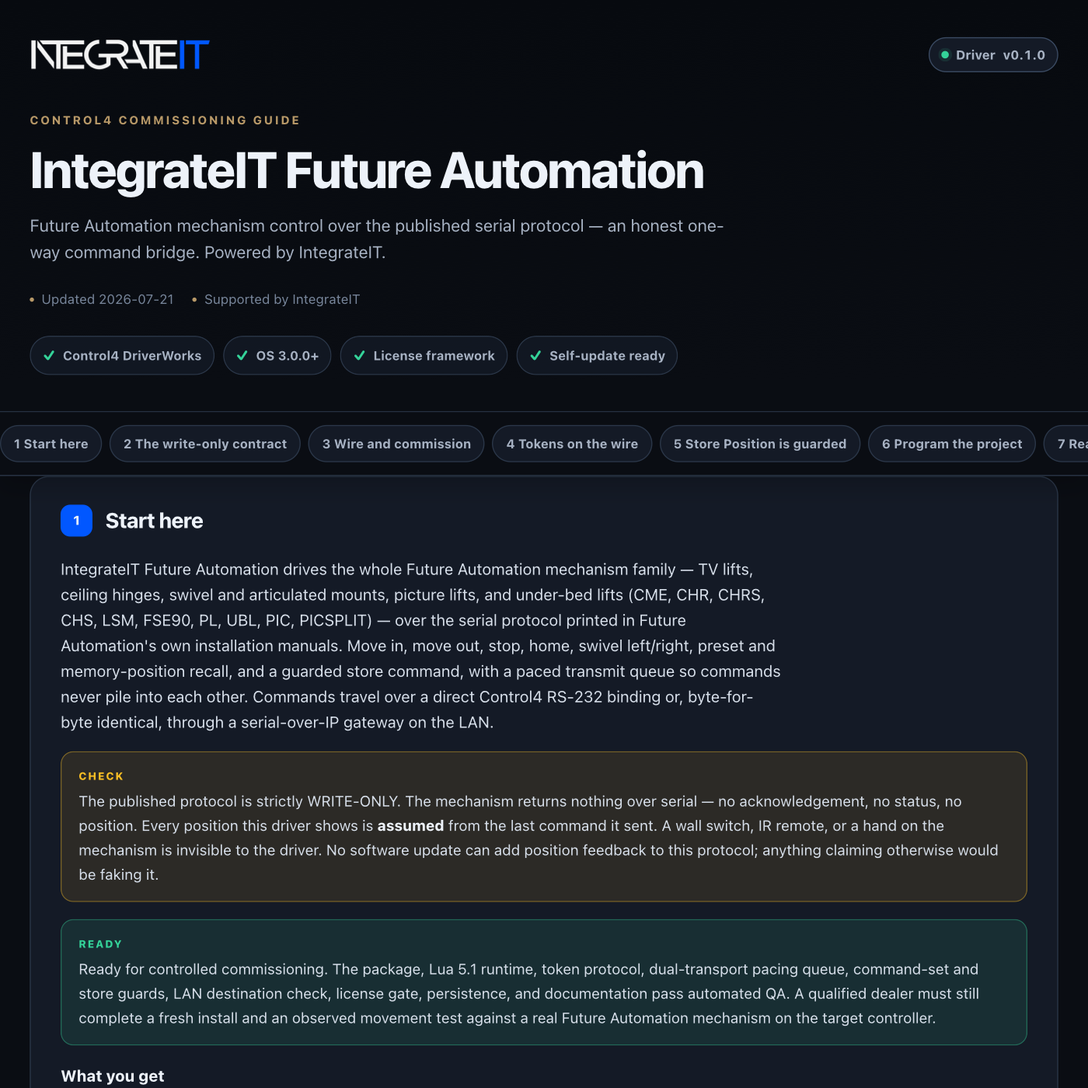
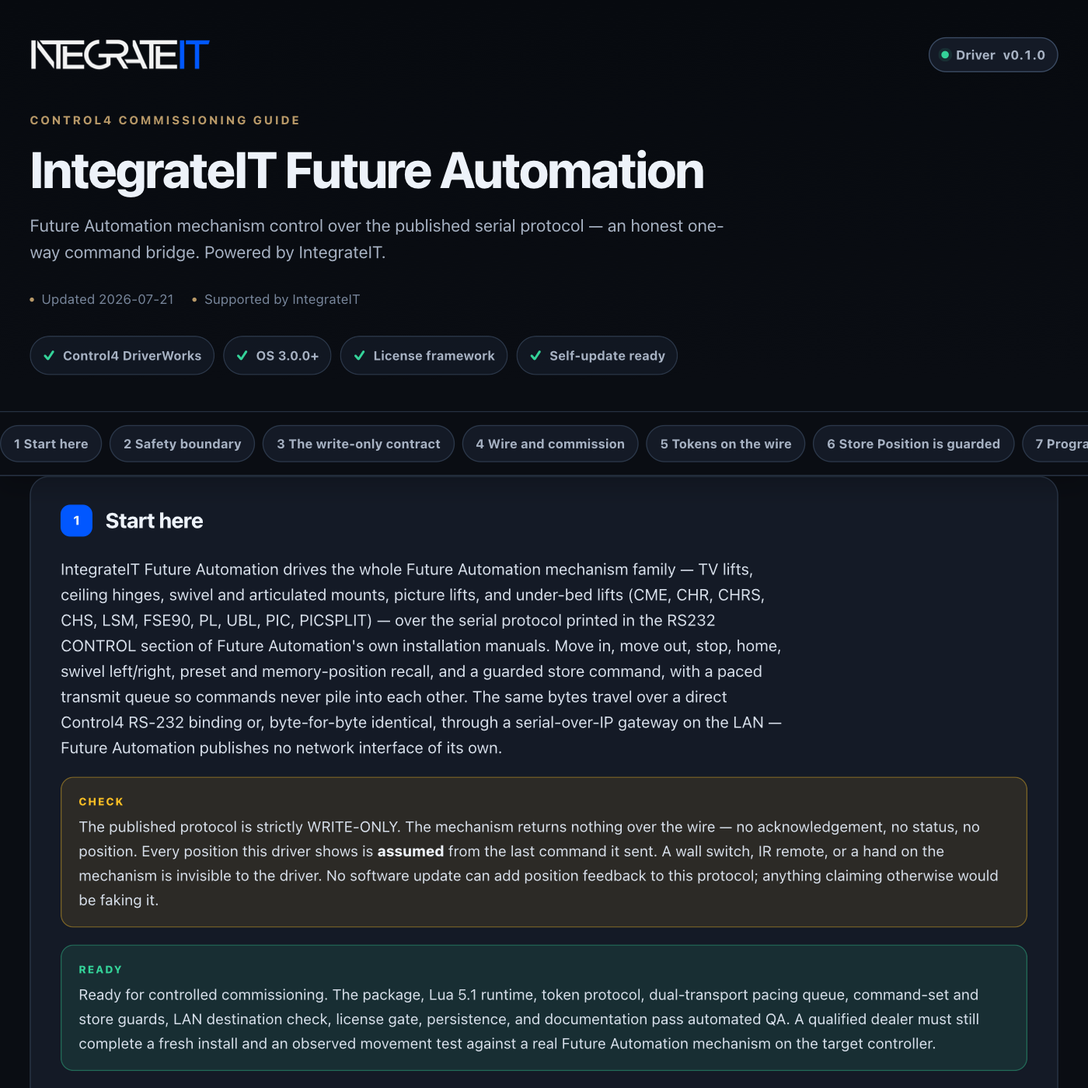
control4: publish driver channel (integrateit_future_automation 0.1.1)

Changed region(s): [[0.0614, 0.5529, 0.9214, 1.0], [0.1229, 0.3993, 1.0, 0.43]]

diff --git a/control4/integrateit_future_automation/documentation.html b/control4/integrateit_future_automation/documentation.html
@@ -179,13 +179,13 @@ td code{white-space:normal}
     <div class="wrap">
       <div class="brandbar">
[1 lines of base64/hex data omitted]
-        <span class="version"><span class="word">Driver</span> v0.1.0</span>
+        <span class="version"><span class="word">Driver</span> v0.1.1</span>
       </div>
       <p class="eyebrow">Control4 commissioning guide</p>
       <h1>IntegrateIT Future Automation</h1>
       <p class="sub">Future Automation mechanism control over the published serial protocol — an honest one-way command bridge. Powered by IntegrateIT.</p>
       <div class="meta">
-        <span>Updated 2026-07-21</span>
+        <span>Updated 2026-07-26</span>
         <span>Supported by IntegrateIT</span>
       </div>
       <div class="readiness" aria-label="Driver capabilities">
@@ -198,14 +198,14 @@ td code{white-space:normal}
   </header>
 
   <div class="toc-wrap">
-    <nav class="toc wrap" aria-label="Documentation sections"><a href="#overview">1 Start here</a><a href="#one-way">2 The write-only contract</a><a href="#setup">3 Wire and commission</a><a href="#protocol">4 Tokens on the wire</a><a href="#store">5 Store Position is guarded</a><a href="#programming">6 Program the project</a><a href="#status">7 Read status at a glance</a><a href="#troubleshooting">8 Troubleshoot methodically</a><a href="#trust">9 Ownership, privacy, and licensing</a><a href="#reference">R Reference</a><a href="#licensing">L Licensing</a><a href="#updates">U Automatic updates</a><a href="#changelog">V Version history</a></nav>
+    <nav class="toc wrap" aria-label="Documentation sections"><a href="#overview">1 Start here</a><a href="#safety">2 Safety boundary</a><a href="#one-way">3 The write-only contract</a><a href="#setup">4 Wire and commission</a><a href="#protocol">5 Tokens on the wire</a><a href="#store">6 Store Position is guarded</a><a href="#programming">7 Program the project</a><a href="#status">8 Read status at a glance</a><a href="#troubleshooting">9 Troubleshoot methodically</a><a href="#trust">10 Ownership, privacy, and licensing</a><a href="#reference">R Reference</a><a href="#licensing">L Licensing</a><a href="#updates">U Automatic updates</a><a href="#changelog">V Version history</a></nav>
   </div>
 
   <main class="wrap">
     <section class="card" id="overview" data-card="overview">
   <h2><span class="n">1</span> Start here</h2>
-  <p>IntegrateIT Future Automation drives the whole Future Automation mechanism family — TV lifts, ceiling hinges, swivel and articulated mounts, picture lifts, and under-bed lifts (CME, CHR, CHRS, CHS, LSM, FSE90, PL, UBL, PIC, PICSPLIT) — over the serial protocol printed in Future Automation's own installation manuals. Move in, move out, stop, home, swivel left/right, preset and memory-position recall, and a guarded store command, with a paced transmit queue so commands never pile into each other. Commands travel over a direct Control4 RS-232 binding or, byte-for-byte identical, through a serial-over-IP gateway on the LAN.</p>
-  <div class="note warn">The published protocol is strictly WRITE-ONLY. The mechanism returns nothing over serial — no acknowledgement, no status, no position. Every position this driver shows is <b>assumed</b> from the last command it sent. A wall switch, IR remote, or a hand on the mechanism is invisible to the driver. No software update can add position feedback to this protocol; anything claiming otherwise would be faking it.</div>
+  <p>IntegrateIT Future Automation drives the whole Future Automation mechanism family — TV lifts, ceiling hinges, swivel and articulated mounts, picture lifts, and under-bed lifts (CME, CHR, CHRS, CHS, LSM, FSE90, PL, UBL, PIC, PICSPLIT) — over the serial protocol printed in the RS232 CONTROL section of Future Automation's own installation manuals. Move in, move out, stop, home, swivel left/right, preset and memory-position recall, and a guarded store command, with a paced transmit queue so commands never pile into each other. The same bytes travel over a direct Control4 RS-232 binding or, byte-for-byte identical, through a serial-over-IP gateway on the LAN — Future Automation publishes no network interface of its own.</p>
+  <div class="note warn">The published protocol is strictly WRITE-ONLY. The mechanism returns nothing over the wire — no acknowledgement, no status, no position. Every position this driver shows is <b>assumed</b> from the last command it sent. A wall switch, IR remote, or a hand on the mechanism is invisible to the driver. No software update can add position feedback to this protocol; anything claiming otherwise would be faking it.</div>
   <div class="note good">Ready for controlled commissioning. The package, Lua 5.1 runtime, token protocol, dual-transport pacing queue, command-set and store guards, LAN destination check, license gate, persistence, and documentation pass automated QA. A qualified dealer must still complete a fresh install and an observed movement test against a real Future Automation mechanism on the target controller.</div>
   <p><b>What you get</b></p>
   <ul>
@@ -213,24 +213,37 @@ td code{white-space:normal}
     <li><b>Home, Swivel Left / Right</b> — articulated and swivel ranges</li>
     <li><b>Recall Preset and memory positions A / B / C</b> — plus <b>Store Position</b>, guarded behind an explicit enable</li>
     <li>A configurable inter-command spacing queue so back-to-back commands never collide</li>
-    <li>Two transports, property-selected: the RS-232 serial binding, or a raw-TCP serial-over-IP gateway</li>
+    <li>Two transports, property-selected: the RS-232 serial binding, or a raw-TCP serial-over-IP gateway with LAN-only destinations and auto-reconnect</li>
     <li>Honest assumed-position tracking: <code>Command Sent</code>, <code>Mechanism Assumed In / Out / Stopped</code>, and <code>Preset Recalled</code> events with programming variables</li>
   </ul>
 </section>
 
+<section class="card" id="safety" data-card="safety">
+  <h2><span class="n">2</span> Safety boundary</h2>
+  <div class="note warn">These mechanisms move real furniture. A TV lift, a ceiling hinge, or a bed lift can pinch, trap, or strike a person, pet, or object in the travel path. Keep the mechanism in view during commissioning. This driver sends movement over a one-way link — it cannot see an obstruction, an end of travel, or anyone standing in the way. It knows only what it last transmitted.</div>
+  <p><b>Stop is the one command that never waits.</b> Every other token is paced through the transmit queue (see <b>Command Spacing</b>), but latency on Stop is a hazard: this is moving furniture. So <code>Stop</code> (<code>fa_stop</code>) <b>preempts</b> — it is the one deliberate exception to pacing. Stop discards any pending movement backlog (the user wants motion halted, not resumed), drops the inter-command spacing latch (configurable up to 2 s), and puts <code>fa_stop</code> on the active transport — serial or gateway — immediately. Without this, a movement token queued ahead of Stop would keep the mechanism travelling, or reverse it, before the stop ever reached the wire. Stop preempts identically on both transports.</p>
+  <p>Before you enable control:</p>
+  <ol class="steps">
+    <li>Prove the mechanism from its own wall switch or IR remote first, including its physical end-of-travel limits.</li>
+    <li>Clear the travel path, and keep it clear through the first commanded cycles.</li>
+    <li>Confirm the serial or gateway wiring before the first <b>Move</b> so a mis-wired port cannot leave the mechanism travelling with no working Stop.</li>
+    <li>Under Strict licensing no wire byte leaves until a controller key is validated. Confirm <b>Stop</b> actually halts the mechanism before you build automated movement on top of it.</li>
+  </ol>
+</section>
+
 <section class="card" id="one-way" data-card="one-way">
-  <h2><span class="n">2</span> The write-only contract</h2>
+  <h2><span class="n">3</span> The write-only contract</h2>
   <p>Future Automation's control boxes accept commands and say nothing back — the vendor manuals publish no status, query, feedback, or acknowledgement commands anywhere in the range. This driver is deliberately honest about that:</p>
   <ul>
     <li>The <code>Assumed Position</code> property and <code>ASSUMED_POSITION</code> variable are <b>dead-reckoned</b> from the commands this driver sent — nothing more.</li>
     <li>After a controller reboot the position restarts at <code>Unknown</code>. No travel is observable across a reboot on a write-only link, so nothing else would be truthful.</li>
-    <li>Swivel commands articulate the mechanism without a dead-reckonable endpoint, so they leave the assumed position untouched.</li>
-    <li>There is no Navigator proxy promising position on purpose. Programming reacts to the events and variables below; position sliders would be fiction.</li>
+    <li>Swivel commands articulate the mechanism without a dead-reckonable endpoint, and Store writes a memory without moving anything — both leave the assumed position untouched.</li>
+    <li>There is no Navigator proxy promising position on purpose. Programming reacts to the events and variables below; a position slider would be fiction.</li>
   </ul>
 </section>
 
 <section class="card" id="setup" data-card="setup">
-  <h2><span class="n">3</span> Wire and commission</h2>
+  <h2><span class="n">4</span> Wire and commission</h2>
   <p><b>Serial (recommended — it is the vendor's native interface):</b></p>
   <ol class="steps">
     <li>Locate the socket marked <b>RS232</b> on the mechanism control box: 6-pin RJ11/RJ25 (pin 1 RX, pin 6 TX, pins 3/4/5 ground) or the 9-pin DE-9 variant.</li>
@@ -241,18 +254,18 @@ td code{white-space:normal}
   <ol class="steps">
     <li>Wire a serial-over-IP gateway (e.g. a Global Cache unit) to the control box RS232 port and configure the gateway's serial side for 9600 8N1, raw TCP.</li>
     <li>Set <b>Transport</b> to <code>TCP gateway (serial-over-IP)</code>, <b>Gateway IP Address</b> to the gateway's LAN address, and <b>Gateway Port</b> to its raw serial-bridge port (often 4999).</li>
-    <li>The driver holds the socket open, reconnects with backoff, and flushes queued commands in order when the link comes up.</li>
+    <li>The driver holds the socket open and reconnects with backoff (<b>Reconnect Delay</b>, default 15 s) — including after a first connection attempt that never comes up — then flushes queued commands in order once the link reports online.</li>
   </ol>
   <p><b>Then, either way:</b></p>
   <ol class="steps">
-    <li>If the mechanism is a simple lift range (PL, LSM and similar), set <b>Command Set</b> to <code>Simple lift (In / Out / Stop)</code> — the driver will refuse swivel/preset tokens the mechanism does not implement.</li>
-    <li>Run <b>Move Out</b> / <b>Move In</b> / <b>Stop</b> from the Actions tab. Watch the mechanism — the driver cannot.</li>
+    <li>If the mechanism is a simple lift range (PL, LSM and similar), set <b>Command Set</b> to <code>Simple lift (In / Out / Stop)</code> — the driver will refuse swivel/home/preset/store tokens the mechanism does not implement.</li>
+    <li>Run <b>Move Out</b> / <b>Move In</b> / <b>Stop</b> from the Actions tab and watch the mechanism react — the driver cannot watch for you.</li>
   </ol>
-  <div class="note">Future Automation prints this serial protocol in its public installation manuals precisely so control systems can drive the mechanisms; this driver implements that published contract with original IntegrateIT engineering.</div>
+  <div class="note">Future Automation prints this serial protocol in its public installation manuals precisely so control systems can drive the mechanisms; this driver is an original IntegrateIT implementation of that published contract.</div>
 </section>
 
 <section class="card" id="protocol" data-card="protocol">
-  <h2><span class="n">4</span> Tokens on the wire</h2>
+  <h2><span class="n">5</span> Tokens on the wire</h2>
   <p>Each command is a plain lowercase ASCII token terminated by a carriage return, exactly as documented:</p>
   <table>
     <tr><th>Wire bytes</th><th>Meaning</th><th>Ranges</th></tr>
@@ -265,11 +278,11 @@ td code{white-space:normal}
     <tr><td><code>fa_a</code> / <code>fa_b</code> / <code>fa_c</code> + CR</td><td>Recall memory position A / B / C</td><td>Articulated / swivel</td></tr>
     <tr><td><code>fa_store</code> + CR</td><td>Store the current position into memory</td><td>Articulated / swivel</td></tr>
   </table>
-  <p>There is no addressing and no checksum — the link is point-to-point. <b>Command Spacing</b> paces the queue: the driver never writes two *movement* tokens closer together than the configured gap (default 300 ms), and commands issued faster are queued in order, never dropped. <b>Stop is the deliberate exception</b> — because a lift is moving furniture, <code>fa_stop</code> preempts the queue and bypasses the spacing so it halts motion immediately, discarding any pending movement tokens rather than letting them play out after you asked it to stop. The same bytes go to the serial port or the gateway socket, whichever transport is selected.</p>
+  <p>There is no addressing and no checksum — the link is point-to-point, and physical access to the port is the entire access model. <b>Command Spacing</b> paces the queue: the driver never writes two commands closer together than the configured gap (default 300 ms, range 100-2000 ms), and commands issued faster are queued in order, never dropped. On the TCP transport the queue also holds while the socket is down and flushes in order the moment the gateway reports online. The one deliberate exception is <b>Stop</b>, which preempts the queue for safety — see <a href="#safety">Safety boundary</a>. The same bytes go to the serial port or the gateway socket, whichever transport is selected; inbound gateway chatter is counted in Debug and never parsed, because the protocol defines no replies.</p>
 </section>
 
 <section class="card" id="store" data-card="store">
-  <h2><span class="n">5</span> Store Position is guarded</h2>
+  <h2><span class="n">6</span> Store Position is guarded</h2>
   <p><code>fa_store</code> overwrites a memory position inside the mechanism — an accidental fire from a scene or a mis-tap would silently destroy a calibrated position. So <b>Store Position</b> is refused unless <b>Enable Store Position</b> is <code>Yes</code>:</p>
   <ol class="steps">
     <li>Drive the mechanism to the position you want (the manual or the mechanism's own remote defines which memory <code>fa_store</code> writes).</li>
@@ -280,17 +293,17 @@ td code{white-space:normal}
 </section>
 
 <section class="card" id="programming" data-card="programming">
-  <h2><span class="n">6</span> Program the project</h2>
+  <h2><span class="n">7</span> Program the project</h2>
   <table>
     <tr><th>Event</th><th>Meaning</th></tr>
     <tr><td><code>Command Sent</code></td><td>A token was actually written to the serial port or gateway socket</td></tr>
     <tr><td><code>Mechanism Assumed Out</code></td><td>The dead-reckoned position transitioned to Out</td></tr>
     <tr><td><code>Mechanism Assumed In</code></td><td>The dead-reckoned position transitioned to In</td></tr>
     <tr><td><code>Mechanism Assumed Stopped</code></td><td>The dead-reckoned position transitioned to Stopped</td></tr>
-    <tr><td><code>Preset Recalled</code></td><td>A preset / memory recall token was sent</td></tr>
+    <tr><td><code>Preset Recalled</code></td><td>A preset / memory recall token (<code>fa_preset</code> / <code>fa_a</code> / <code>fa_b</code> / <code>fa_c</code>) was sent</td></tr>
     <tr><td><code>Gateway Connected</code></td><td>TCP transport: the gateway socket came online</td></tr>
     <tr><td><code>Gateway Disconnected</code></td><td>TCP transport: the gateway socket dropped or was closed</td></tr>
-    <tr><td><code>Gateway Connection Failed</code></td><td>TCP transport: a connect attempt was refused or failed</td></tr>
+    <tr><td><code>Gateway Connection Failed</code></td><td>TCP transport: a connect attempt failed the LAN check or could not open</td></tr>
   </table>
   <table>
     <tr><th>Variable</th><th>Type</th><th>Meaning</th></tr>
@@ -299,12 +312,18 @@ td code{white-space:normal}
     <tr><td><code>COMMANDS_SENT</code></td><td>NUMBER</td><td>Wire writes since install (persists across reboots)</td></tr>
     <tr><td><code>GATEWAY_ONLINE</code></td><td>BOOL</td><td>TCP transport: whether the gateway socket is up</td></tr>
   </table>
-  <p>Typical pattern: fire <b>Move Out</b> when the room powers on, <b>Move In</b> when it powers off, and use <code>Mechanism Assumed Out</code> to sequence what happens after the (assumed) deploy. On a write-only link, give the mechanism its travel time before acting — the driver cannot tell you when travel finishes.</p>
-  <p>Control commands are gated by the license: under Strict enforcement an unlicensed controller writes nothing to either transport; the default Lenient mode allows commissioning while <code>License Status</code> carries the nag.</p>
+  <p>Note that <b>Home</b> and the preset/memory recalls update the assumed position but fire no <code>Mechanism Assumed …</code> transition event — use <code>Command Sent</code> and <code>Preset Recalled</code> to sequence off those.</p>
+  <p>Three ways these wire into Composer programming:</p>
+  <ul>
+    <li><b>When the room powers on → Move Out; when it powers off → Move In.</b> One Control4 power event deploys or stows the mechanism.</li>
+    <li><b>When <code>Preset Recalled</code> fires → run the matching viewing scene.</b> A recall of <code>fa_preset</code> / <code>fa_a</code> / <code>fa_b</code> / <code>fa_c</code> can trigger the lights and shades that belong with that seating position.</li>
+    <li><b>When <code>Mechanism Assumed Out</code> fires → wait the mechanism's rated travel time, then continue.</b> The event marks the command going out, not the mechanism arriving — on a write-only link the driver cannot tell you when travel finishes, so give it its travel time before the next step.</li>
+  </ul>
+  <p>Control commands are gated by the license: under Strict enforcement an unlicensed controller writes nothing to either transport, and any tokens already queued are dropped at transmit time rather than replayed on re-license. The default Lenient mode allows commissioning while <code>License Status</code> carries the nag.</p>
 </section>
 
 <section class="card" id="status" data-card="status">
-  <h2><span class="n">7</span> Read status at a glance</h2>
+  <h2><span class="n">8</span> Read status at a glance</h2>
   <table>
     <tr><th>Property</th><th>Healthy result</th><th>What to do otherwise</th></tr>
     <tr><td><code>Assumed Position</code></td><td>Matches what you last commanded</td><td>Remember it is assumed — re-command to re-sync after manual movement</td></tr>
@@ -318,28 +337,29 @@ td code{white-space:normal}
 </section>
 
 <section class="card" id="troubleshooting" data-card="troubleshooting">
-  <h2><span class="n">8</span> Troubleshoot methodically</h2>
+  <h2><span class="n">9</span> Troubleshoot methodically</h2>
   <table>
     <tr><th>Symptom</th><th>Likely cause</th><th>Resolution</th></tr>
     <tr><td>Nothing moves, <code>Commands Sent</code> counts up (serial)</td><td>Wrong serial port bound, wrong wiring, or wrong baud</td><td>Verify the binding and the 9600 8N1 RJ11/RJ25 pinout (pin 1 RX, pin 6 TX, 3/4/5 ground)</td></tr>
     <tr><td>Nothing moves, <code>Commands Sent</code> counts up (TCP)</td><td>Gateway reachable but its serial leg is miswired or misconfigured</td><td>Verify the gateway's serial settings (9600 8N1, raw) and its cable to the control box — the driver cannot see past the gateway</td></tr>
     <tr><td>Nothing moves, <code>Commands Sent</code> stays flat</td><td>Strict unlicensed, a refused command tier, or the store guard</td><td>Read <code>License Status</code> and <code>Last Error</code></td></tr>
-    <tr><td>Swivel / preset commands refused</td><td>Command Set is Simple lift</td><td>Set Command Set to Full on articulated / swivel ranges</td></tr>
-    <tr><td><code>Gateway refused: …</code> in Status</td><td>Destination failed the LAN-only check</td><td>Use the gateway's private LAN IPv4 address or <code>.local</code> name — there is no WAN override</td></tr>
-    <tr><td><code>Connection Status</code> stuck <code>Connecting…</code> then retrying</td><td>Gateway offline or wrong port</td><td>Confirm the gateway IP and raw-TCP port; the driver retries with backoff</td></tr>
+    <tr><td>Swivel / home / preset commands refused</td><td>Command Set is Simple lift</td><td>Set Command Set to Full on articulated / swivel ranges</td></tr>
+    <tr><td><code>Gateway refused: …</code> in Status</td><td>Destination failed the LAN-only check</td><td>Use the gateway's private LAN IPv4 address, <code>.local</code> name, or bare LAN hostname — there is no WAN override</td></tr>
+    <tr><td><code>Connection Status</code> stuck <code>Connecting…</code> then retrying</td><td>Gateway offline or wrong port</td><td>Confirm the gateway IP and raw-TCP port; the driver retries with backoff, including on a failed first connect</td></tr>
     <tr><td><code>Assumed Position</code> disagrees with the room</td><td>Someone moved the mechanism by wall switch or remote</td><td>Expected on a write-only link — send a command to re-sync the assumption</td></tr>
   </table>
   <div class="note warn">Do not chase "missing feedback" — there is none to find. The mechanism never reports back; design programming around commands, travel-time waits, and assumptions, not confirmations.</div>
+  <p>If a symptom survives every check above, run <b>Print Configuration</b>, capture the Lua output window, and send it to support@integrateit.tech · (913) 804-7575.</p>
 </section>
 
 <section class="card" id="trust" data-card="trust">
-  <h2><span class="n">9</span> Ownership, privacy, and licensing</h2>
-  <p>This package is an original IntegrateIT implementation of the serial control protocol Future Automation prints in its public installation manuals. It does not bundle another vendor's runtime, source code, brand assets, trial system, or license. Driver engineering, Control4 integration, documentation, QA, licensing, updates, and support are provided by IntegrateIT. Future Automation's own warranty terms expressly contemplate third-party control software while excluding it from mechanism warranty coverage — control programming remains the dealer's responsibility.</p>
-  <p>The driver sends mechanism tokens to your serial port or your LAN gateway and nothing anywhere else. TCP destinations are restricted to private LAN addresses with no WAN override. The shared IntegrateIT license and update services use the controller identity, driver slug, version, configured license key, and update channel as documented in the reference below.</p>
+  <h2><span class="n">10</span> Ownership, privacy, and licensing</h2>
+  <p>This package is an original IntegrateIT implementation of the serial control protocol Future Automation prints in its public installation manuals. It does not bundle another vendor's runtime, source code, brand assets, trial system, or license. Future Automation is a trademark of its owner; IntegrateIT is not affiliated with Future Automation, and this driver is not a Future Automation product. Driver engineering, Control4 integration, documentation, QA, licensing, updates, and support are provided by IntegrateIT.</p>
+  <p>The driver sends mechanism tokens to your serial port or your LAN gateway and nothing anywhere else. TCP destinations are restricted to private LAN addresses with no WAN override. The shared IntegrateIT license and update services use the controller identity, driver slug, version, configured license key, and update channel as documented in the reference below; the license key is never written to the log.</p>
   <p>Lenient mode allows commissioning without an activated key and keeps <code>License Status</code> visible. Strict mode blocks all mechanism control until the Ops Portal has minted and validated a key for that controller. Installing this package does not itself mint or activate a controller license.</p>
 <section class="card" id="reference" data-card="reference">
   <h2><span class="n">R</span> Reference</h2>
-  <p>Generated from the driver manifest at build time — always matches this build (v0.1.0).</p>
+  <p>Generated from the driver manifest at build time — always matches this build (v0.1.1).</p>
   <h3>Properties</h3>
   <table>
     <tr><th>Property</th><th>Type</th><th>Default</th><th>Description</th></tr>
@@ -472,7 +492,9 @@ td code{white-space:normal}
     <section class="card" id="changelog" data-card="changelog">
   <h2><span class="n">V</span> Version history</h2>
   <div class="chg">
-    <div class="rel"><b>v0.1.0</b> <span class="pill green">current</span><span class="d">2026-07-21</span>
+    <div class="rel"><b>v0.1.1</b> <span class="pill green">current</span><span class="d">2026-07-26</span>
+      <ul><li>Documentation rebuilt to the IntegrateIT commissioning-guide standard: uniform sections, honest contracts, verified claim-by-claim against the code.</li></ul></div>
+    <div class="rel"><b>v0.1.0</b><span class="d">2026-07-21</span>
       <ul><li>Initial release candidate: Future Automation mechanism control over the published RS-232 token protocol (fa_in / fa_out / fa_stop / fa_home / fa_left / fa_right / fa_preset / fa_a / fa_b / fa_c / fa_store), CR-terminated at 9600 8N1.</li><li>Dual transport, property-selected: direct RS-232 serial binding, or raw-TCP serial-over-IP gateway with LAN-only destination enforcement, auto-reconnect, and in-order queue flush on connect.</li><li>Paced transmit queue with configurable inter-command spacing.</li><li>Command Set selector so simple lift ranges refuse articulated/swivel tokens; Store Position guarded behind an explicit enable.</li><li>Honest assumed-position model for the write-only protocol: Command Sent, Mechanism Assumed In / Out / Stopped, and Preset Recalled events; assumed position resets to Unknown on reboot by design.</li><li>MAC-locked IntegrateIT licensing (lenient/strict) gating every wire write, including queued tokens at transmit time.</li><li>Safety: Stop (fa_stop) now preempts the paced queue and the inter-command spacing window instead of waiting behind them. A lift is moving furniture, and a Stop that queued behind pending moves (or sat out a spacing interval up to 2 s) kept the mechanism travelling — and any movement token ahead of it drove it first. Stop now discards the stale movement backlog and transmits immediately on the active transport (serial or gateway), still license-gated. This makes the "stop immediately" contract in the command and protocol docs actually true.</li><li>Fixed a TCP auto-reconnect gap: a connect attempt that failed by reporting OFFLINE (never having reached ONLINE) cancelled the connect watchdog without scheduling a retry, wedging the gateway at "Not connected" despite the keep-open intent. Failed initial connects now re-arm the reconnect backoff.</li></ul></div>
   </div>
 </section>

diff --git a/control4/integrateit_future_automation/CHANGELOG.md b/control4/integrateit_future_automation/CHANGELOG.md
@@ -1,5 +1,8 @@
 # Changelog — IntegrateIT Future Automation
 
+## [0.1.1] - 2026-07-26
+- Documentation rebuilt to the IntegrateIT commissioning-guide standard: uniform sections, honest contracts, verified claim-by-claim against the code.
+
 ## [0.1.0] - 2026-07-21
 - Initial release candidate: Future Automation mechanism control over the published
   RS-232 token protocol (fa_in / fa_out / fa_stop / fa_home / fa_left / fa_right /
